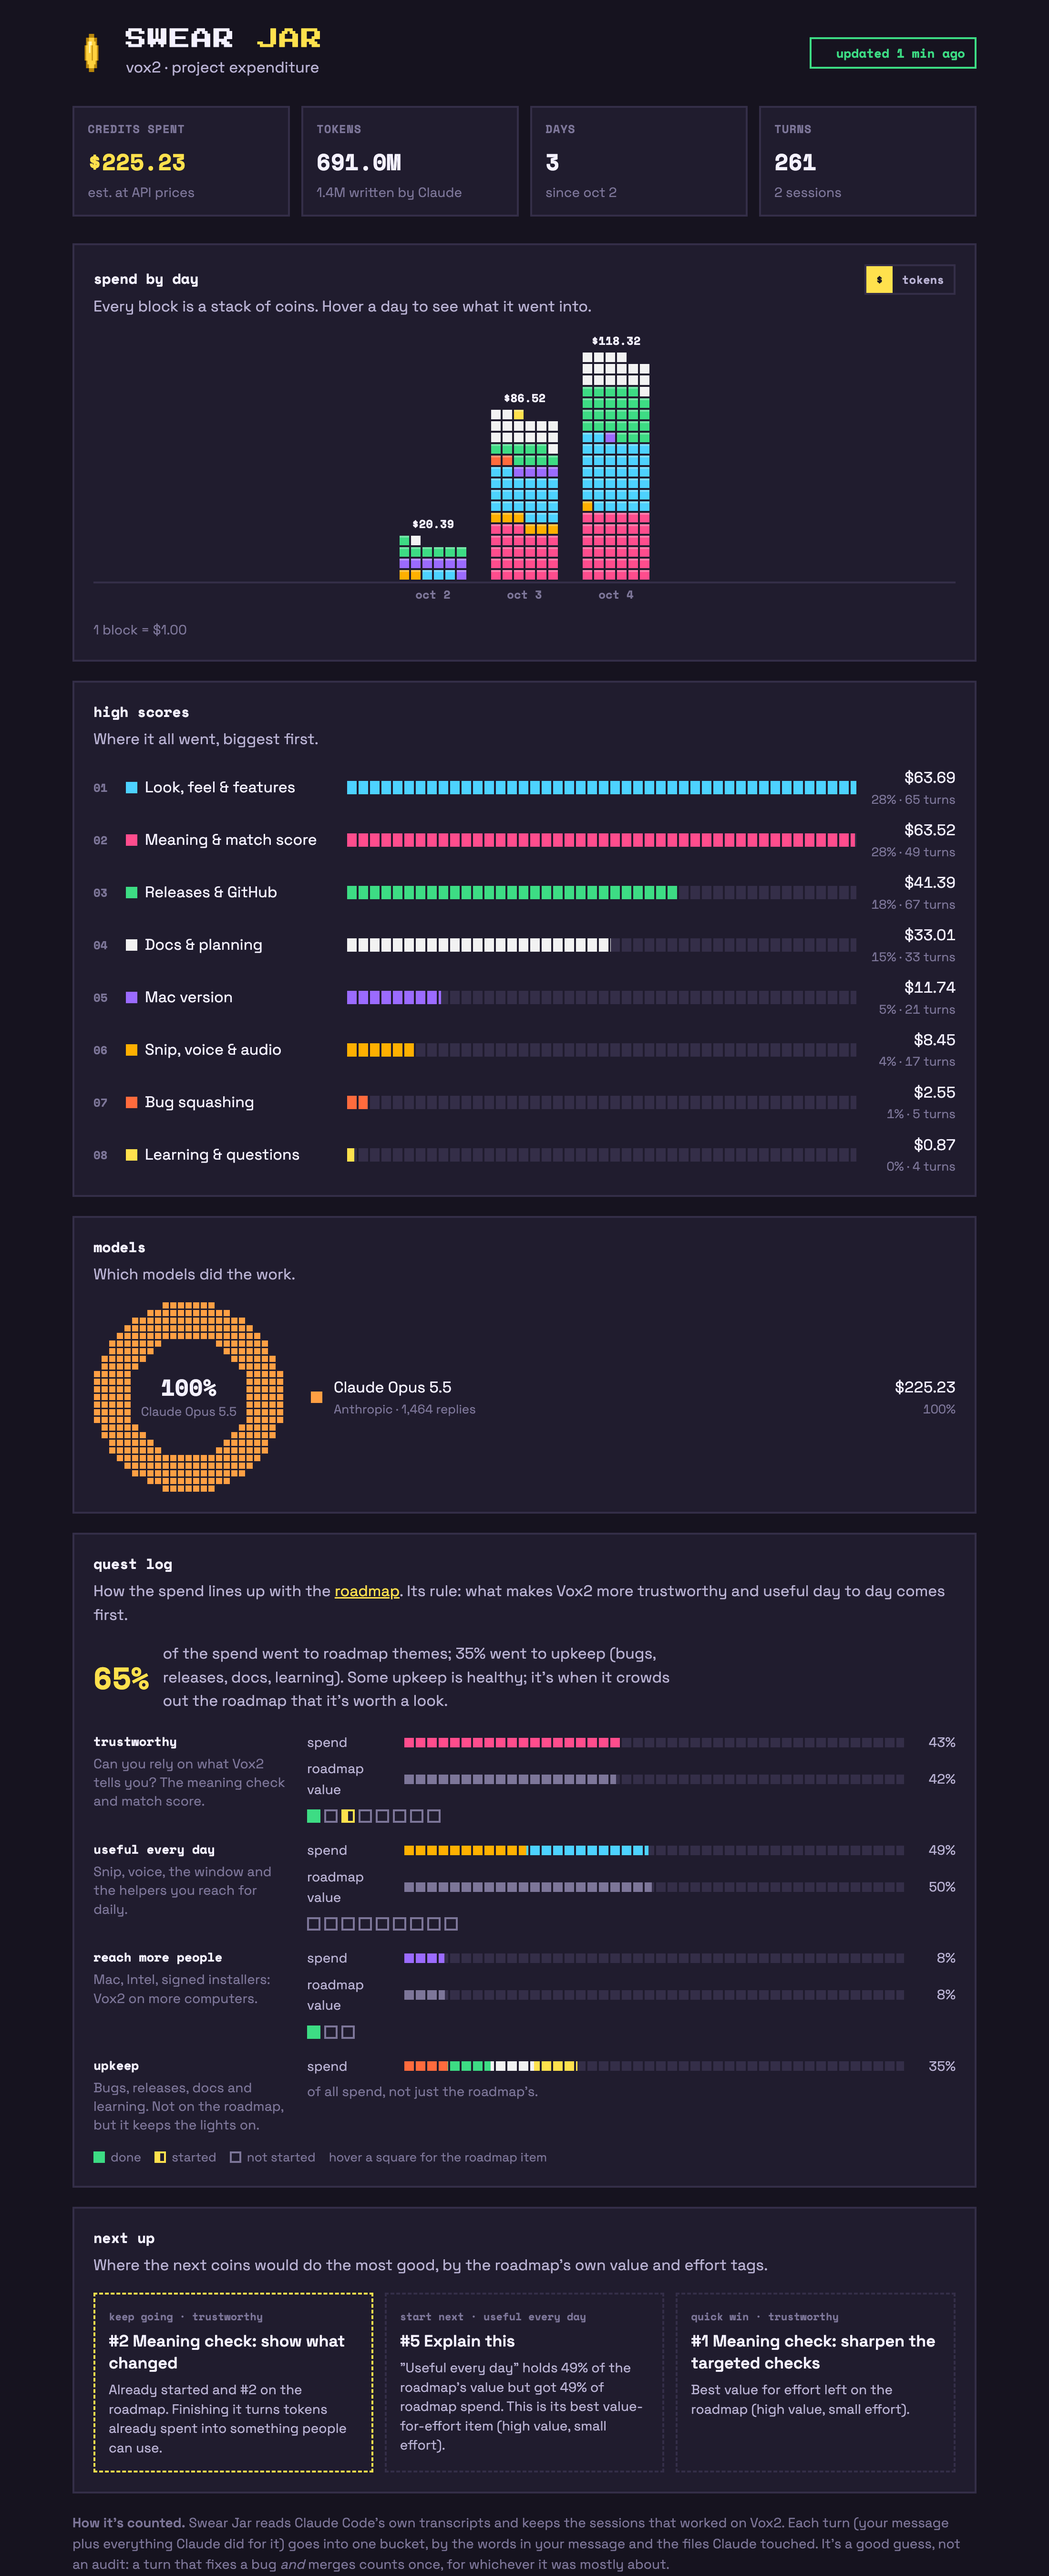
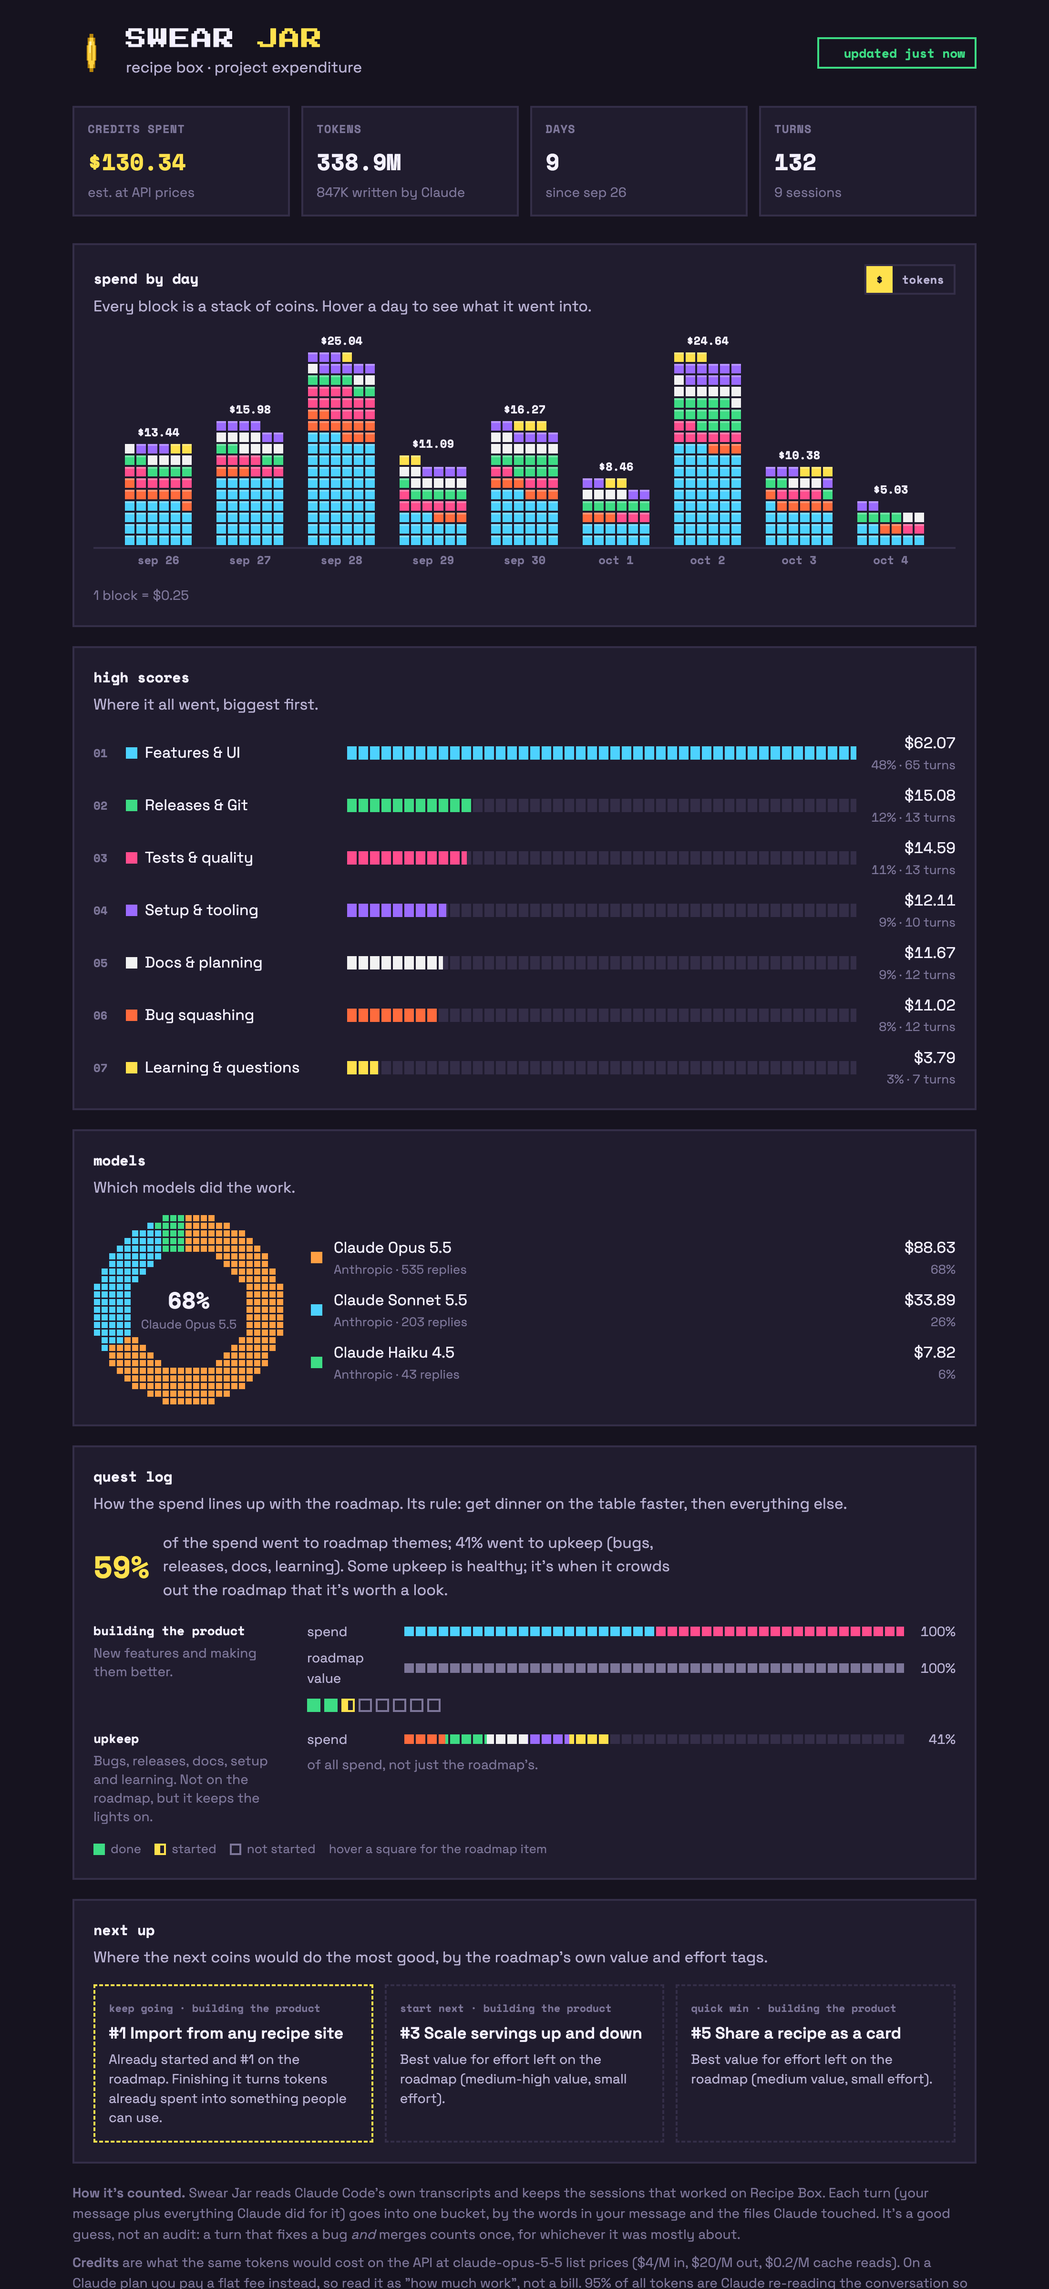
Screenshots: a made-up sample project instead of my real numbers

diff --git a/README.md b/README.md
@@ -5,7 +5,7 @@ Day by day, by focus area, and against your product's own roadmap. Track anythin
 
 <p align="center"><a href="#make-your-own"><b>Make your own</b></a> · <a href="https://github.com/chrisqtruong/swear-jar/releases/latest/download/swear-jar.zip">Download</a></p>
 
-<p align="center"><img src="screenshots/top.png" width="820" alt="Swear Jar: spend per day and turns, with a pixel-block chart of spend per day colored by focus area"></p>
+<p align="center"><img src="screenshots/top.png" width="820" alt="Swear Jar for a sample project, Recipe Box (made-up numbers): $130 spent across 9 days and 132 turns, with a pixel-block chart of spend per day colored by focus area"></p>
 
 ## Why
 
@@ -15,7 +15,9 @@ It's a small personal project. The sorting is a good guess, not an audit. But it
 
 ## What it shows
 
-<p align="center"><img src="screenshots/full.png" width="560" alt="The full dashboard: spend by day, high scores per bucket, quest log comparing spend with roadmap themes, and next-up recommendations"></p>
+<sub>Screenshots use a made-up sample project, Recipe Box.</sub>
+
+<p align="center"><img src="screenshots/full.png" width="560" alt="The full dashboard for the sample project: spend by day, high scores per bucket, a donut of models, the quest log comparing spend with the roadmap, and next-up picks"></p>
 
 - **Score row.** Estimated cost, tokens, days and turns.
 - **Spend by day.** Each day is a column of pixel blocks (1 block = $1), colored by bucket. Hover a day for the breakdown; switch between dollars and tokens.
